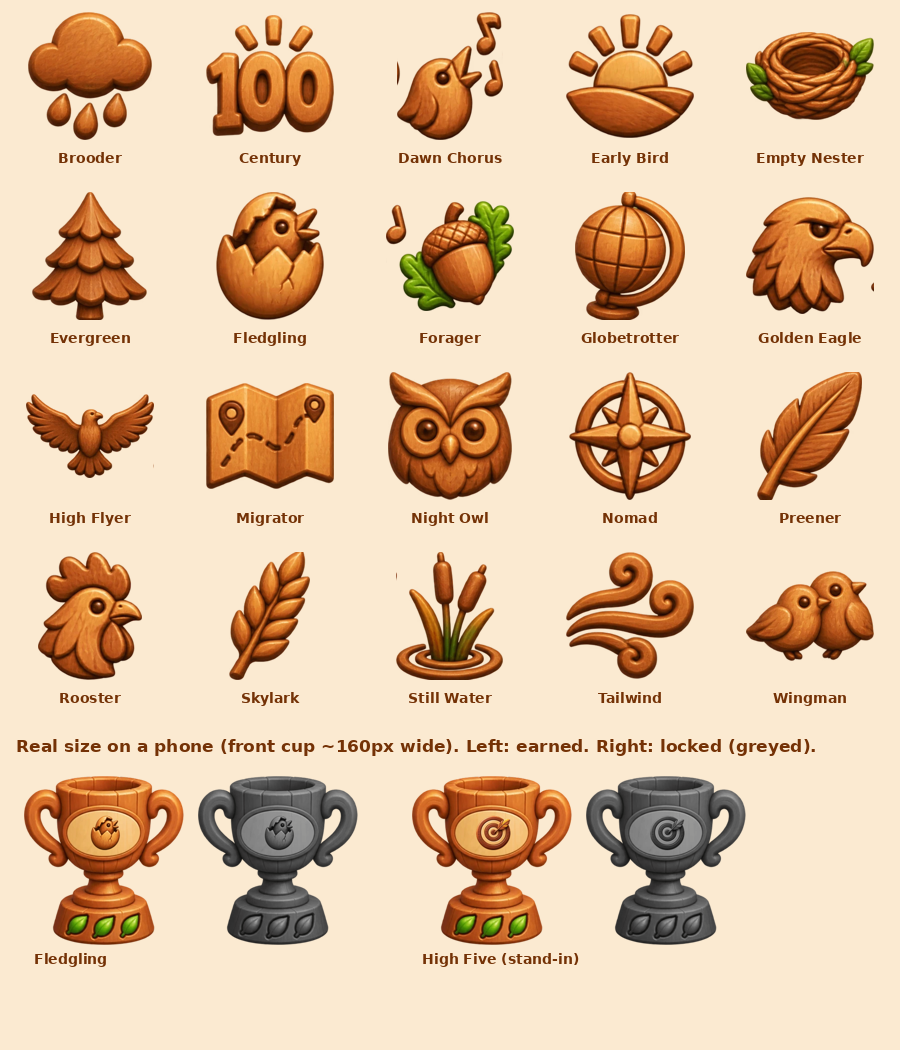
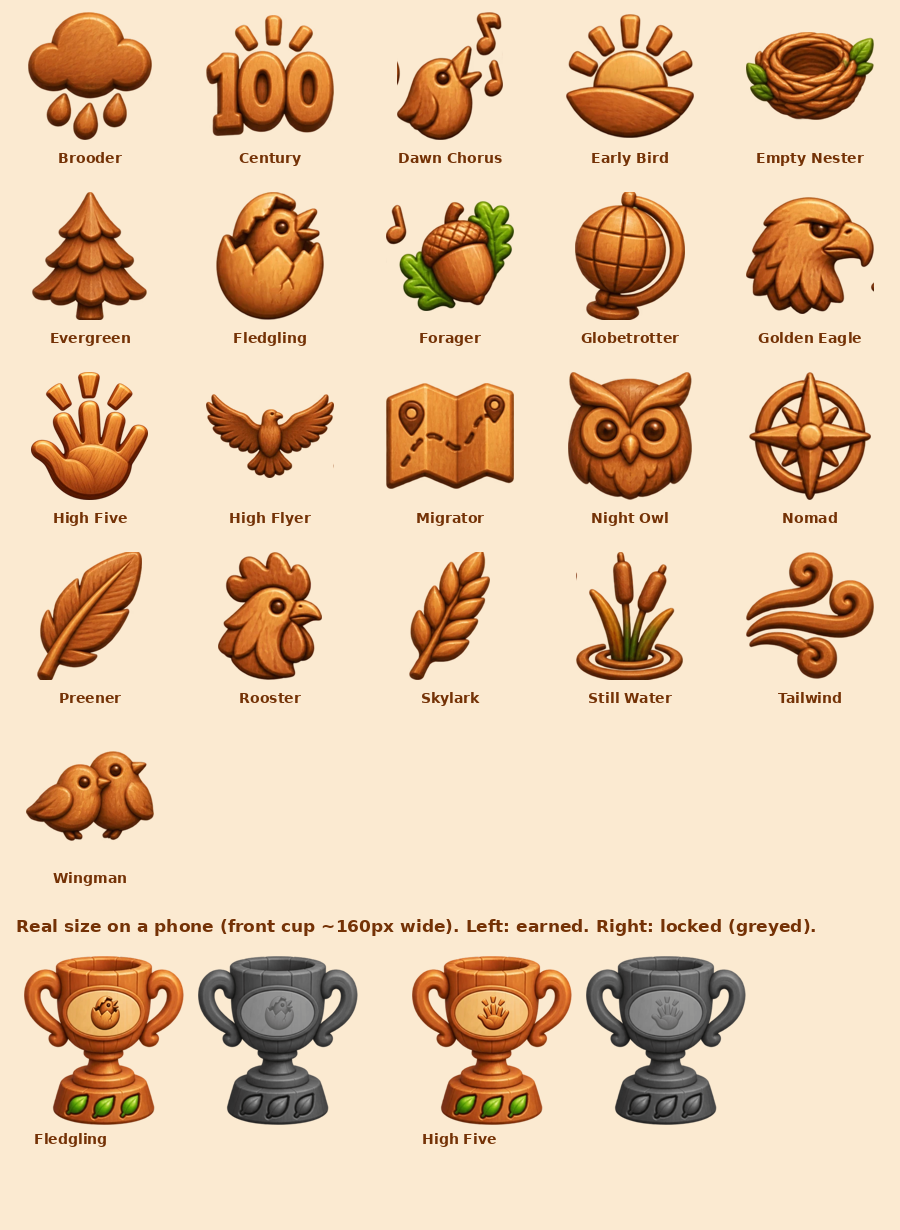
High Five gets its own emblem: a carved wooden hand mid high-five
Replaces the borrowed Weekly Challenges target. From the delivered art:
the faint haze round it cleared (alpha under 16), the wood made fully
opaque (it was ~99%), trimmed to the art and sized like the other
twenty (235x256). Checked on the cup in the Awards scene and at real
phone size, earned and greyed. Reference sheet regenerated.

Claude-Session: https://claude.ai/code/session_01BftYwBApCySU9gZJ9AtT18

diff --git a/design-brief-high-five-emblem-v1.md b/design-brief-high-five-emblem-v1.md
@@ -1,5 +1,9 @@
 # Design Brief: High Five trophy emblem (v1)
 
+> **Delivered** - the open hand with three rays. In the app as
+> `static/emblem-high_five-v1.webp` (haze cleared, made fully opaque,
+> trimmed to the art, 235 x 256).
+
 ## What this is
 
 Warble has a new trophy, **High Five**. A child wins it by finishing all
